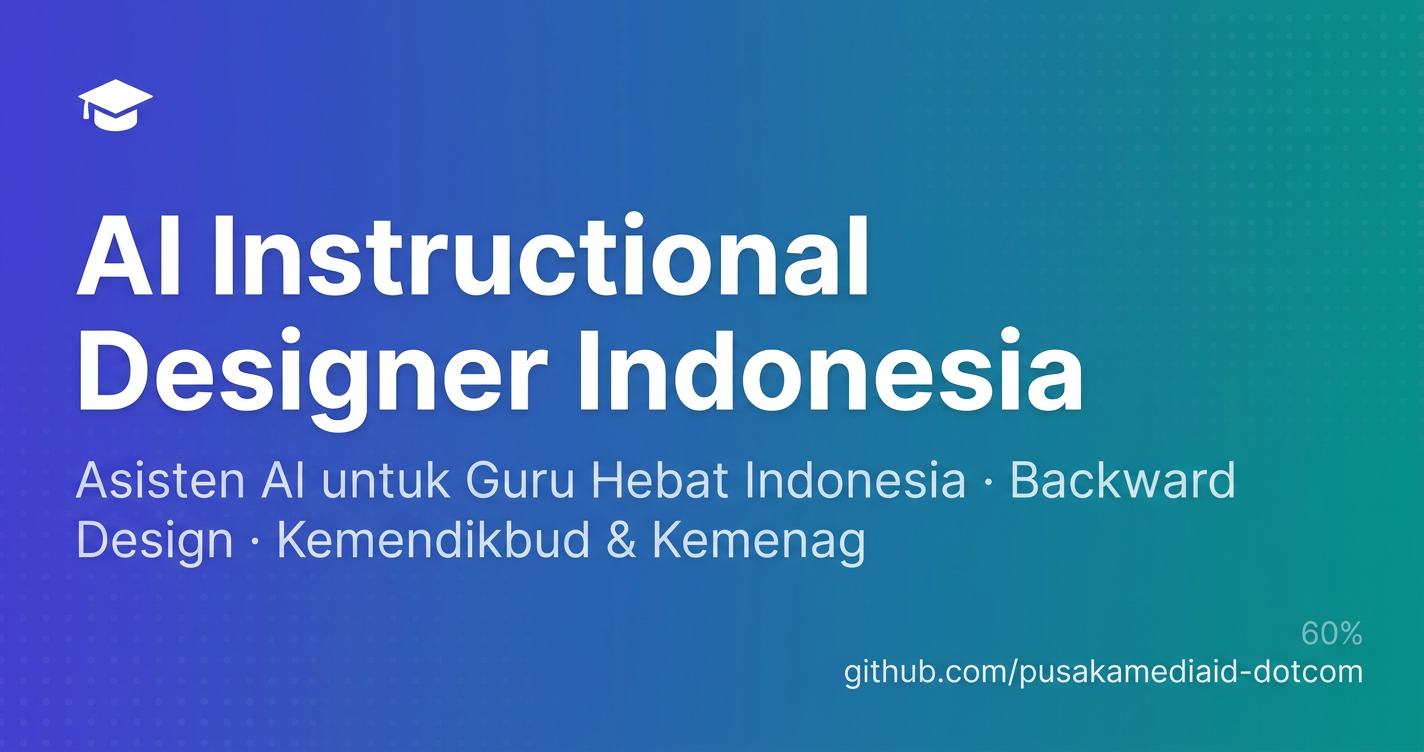
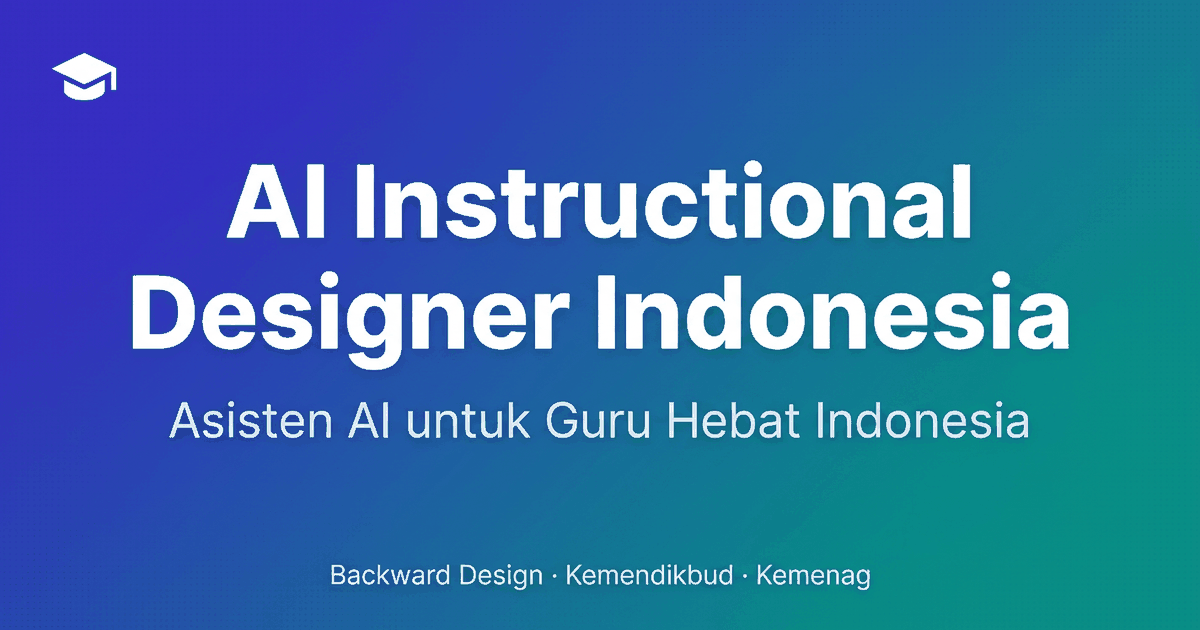
chore: polish visual assets & fix docs anchor
Follow-up dari audit iterasi 2 (semua temuan minor).

Fixes:
- docs anchor: README link ke Cloud Run section di PANDUAN
  sekarang pakai slug yang benar (#e-deploy-ke-google-cloud-run,
  bukan #deploy-ke-google-cloud-run). Anchor lain sudah OK.

Assets:
- public/og-image.png: regenerated ke dimensi standar 1200x630
  (sebelumnya 1424x752). Dikompres via Pillow palette quantize
  128 colors: 1.62 MB -> 280 KB (turun 83%). Artefak '60%' aneh
  di kanan bawah versi lama sudah hilang.
- docs/SCREENSHOT.png: resize width 1408 -> 1400 + palette quantize
  256 colors: 1.20 MB -> 354 KB (turun 71%). Konten screenshot
  mockup tetap tajam & readable.

Integritas:
- server.ts, fallbackGenerators.ts, src/types.ts: tidak disentuh
  (SHA-256 tetap seperti verifikasi audit).
- Semua patch dari commit sebelumnya tetap in-place.

Total commit iterasi ini: 1

diff --git a/README.md b/README.md
@@ -196,7 +196,7 @@ gcloud run deploy ai-instructional-designer \
   --set-env-vars GEMINI_API_KEY=<API_KEY_ANDA>
 ```
 
-Tunggu 3–5 menit → URL aplikasi muncul di terminal. Selesai. Detail lengkap ada di [`docs/PANDUAN_UNTUK_KLIEN.md#deploy-ke-google-cloud-run`](docs/PANDUAN_UNTUK_KLIEN.md#deploy-ke-google-cloud-run).
+Tunggu 3–5 menit → URL aplikasi muncul di terminal. Selesai. Detail lengkap ada di [`docs/PANDUAN_UNTUK_KLIEN.md` — Bagian E](docs/PANDUAN_UNTUK_KLIEN.md#e-deploy-ke-google-cloud-run).
 
 ### 🥈 Opsi 2 — Railway atau Render (Satu Klik)
 